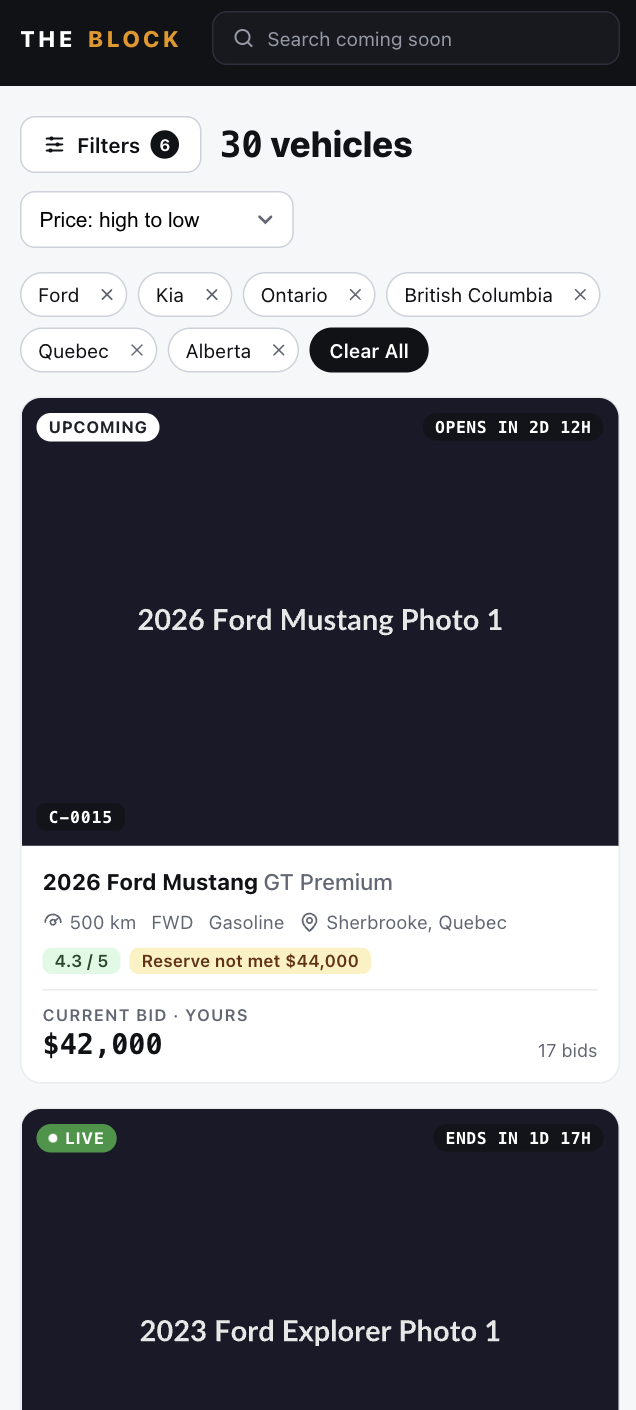
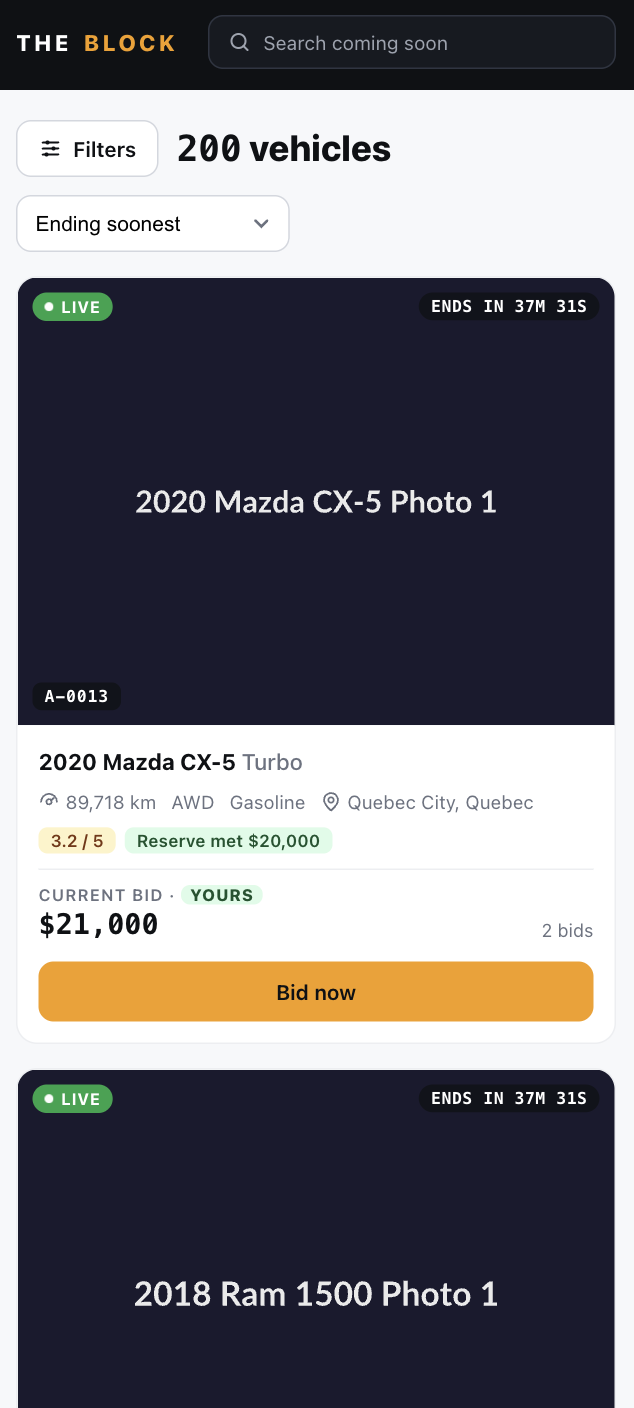
fixed ui bugs and readme

diff --git a/src/components/VehicleCard.tsx b/src/components/VehicleCard.tsx
@@ -80,9 +80,20 @@ export function VehicleCard({
               {/* A lot with no bids is quoting an asking price, not a market
                   price. Labelling them differently keeps that honest. */}
               <span className="card__price-label">
-                {hasBids
-                  ? `Current bid · ${isUsersCurrentBid ? "Yours" : "Another bidder"}`
-                  : "Starting bid"}
+                {hasBids ? (
+                  <>
+                    Current bid ·{" "}
+                    <span
+                      className={
+                        isUsersCurrentBid ? "bid-owner bid-owner--yours" : "bid-owner"
+                      }
+                    >
+                      {isUsersCurrentBid ? "Yours" : "Another bidder"}
+                    </span>
+                  </>
+                ) : (
+                  "Starting bid"
+                )}
               </span>
               <span className="card__price-value numeric">
                 {formatCurrency(vehicle.effectivePrice)}

diff --git a/src/index.css b/src/index.css
@@ -587,14 +587,7 @@ img {
 }
 
 .card__action {
-  display: none;
   padding: 0 14px 14px;
-}
-
-@media (min-width: 900px) {
-  .card__action {
-    display: block;
-  }
 }
 
 .card__media {
@@ -693,6 +686,18 @@ img {
   text-transform: uppercase;
   color: var(--ink-400);
   margin-bottom: 2px;
+}
+
+/* High-bidder mark: green chip so "Yours" is scannable in a dense grid. */
+.bid-owner--yours {
+  display: inline-flex;
+  align-items: center;
+  color: #14532d;
+  background: var(--live-soft);
+  font-weight: 800;
+  padding: 0 6px;
+  border-radius: var(--radius-sm);
+  letter-spacing: 0.04em;
 }
 
 .card__price-value {
@@ -1106,6 +1111,10 @@ img {
 }
 
 .bid__price-label {
+  display: flex;
+  align-items: center;
+  flex-wrap: wrap;
+  gap: 6px;
   font-size: 12px;
   font-weight: 600;
   letter-spacing: 0.05em;

diff --git a/src/components/BidPanel.tsx b/src/components/BidPanel.tsx
@@ -68,9 +68,20 @@ export function BidPanel({ vehicle }: { vehicle: Vehicle }) {
     <>
       <section className="panel panel--bid">
         <span className="bid__price-label">
-          {hasBids
-            ? `Current bid · ${isUsersCurrentBid ? "Yours" : "Another bidder"}`
-            : "Starting bid"}
+          {hasBids ? (
+            <>
+              Current bid ·{" "}
+              <span
+                className={
+                  isUsersCurrentBid ? "bid-owner bid-owner--yours" : "bid-owner"
+                }
+              >
+                {isUsersCurrentBid ? "Yours" : "Another bidder"}
+              </span>
+            </>
+          ) : (
+            "Starting bid"
+          )}
         </span>
         <p className="bid__price numeric">{formatCurrency(vehicle.effectivePrice)}</p>
 

diff --git a/src/pages/InventoryPage.tsx b/src/pages/InventoryPage.tsx
@@ -22,7 +22,7 @@ import {
 export function InventoryPage() {
   const inventory = useInventory();
   const [drawerOpen, setDrawerOpen] = useState(false);
-  const [desktopFiltersOpen, setDesktopFiltersOpen] = useState(false);
+  const [desktopFiltersOpen, setDesktopFiltersOpen] = useState(true);
   const [bidVehicleId, setBidVehicleId] = useState<string | null>(null);
   const closeBidModal = useCallback(() => setBidVehicleId(null), []);
 

diff --git a/README.md b/README.md
@@ -3,17 +3,16 @@
 ## How to Run
 
 - **Step 1**: `cd` into the project directory from your terminal
-- **Step 2**: run `npm run dev`
-- **Step 3**: Open the localpost url in your browser (Google Chrome preferred). `http://localhost:5173/` is the default
+- **Step 2**: run `npm install`
+- **Step 3**: run `npm run dev`
+- **Step 4**: Open the localpost url in your browser (Google Chrome preferred). `http://localhost:5173/` is the default
 
 ## Time Spent
 
 I spent a total of 3.5 hours on this project. This is roughly how I divided up my time:
 
 - **1 hour**: Going though the exercise requirements, understanding what needs to be done, doing some research on similar UI/UX: I used Autotrader and the Toronto Police Auction websites for inspiration for building the UI/UX. I also used this time to write down assumptions.
-
 - **1.5 hour**: Using cursor to implement this project. I used my assumptions, requirements and descriptions of UI/UX elements that I wanted to implement to prompt cursor. I built this project in 5 phases - data layer, browsing screen, filters, vehicle detail page and bidding. Building each phase was also accompanied by writing unit tests.
-
 - **1 hour**: The last hour was used for manual testing, fixing bugs, doing some code cleanup and putting together this file
 
 
@@ -30,15 +29,17 @@ Stale auction timestamps are rebased so live, upcoming, and closed lots all appe
 
 Price, bid rules, and URL-as-query-state are product guesses: effectivePrice is currentBid ?? startingBid, bids are an append-only localStorage log, and filters live in the URL.
 
-
-
 ## Stack
 
 - **Frontend:**: React/Vite/Typescript
 - **Backend:**: None
 - **Database:**: In memory
 
+
+
 ## What I Built
+
+
 
 ### Desktop
 
@@ -54,11 +55,11 @@ Price, bid rules, and URL-as-query-state are product guesses: effectivePrice is 
 
 **Browse**
 
-<img src="screenshots/mobile_browse.png" alt="Mobile inventory browse" width="320" />
+![Mobile inventory browse](screenshots/mobile_browse.png)
 
 **Vehicle detail**
 
-<img src="screenshots/mobile_details.png" alt="Mobile vehicle detail" width="320" />
+![Mobile vehicle detail](screenshots/mobile_details.png)
 
 A buyer-side wholesale auction prototype: browse 200 vehicles, filter and sort them, open a lot, and place a bid. Two screens — an inventory grid at `/` and a vehicle detail page at `/vehicles/:id` — sit on a data layer that loads, normalizes, searches, filters, sorts, paginates, and overlays bids. It delivers a great mobile experience as well as desktop: browsing, filtering, and bidding were designed to work comfortably on a phone, not just squeezed down from a wide layout.
 
@@ -69,16 +70,13 @@ I started with that layer so the UI only consumes a stable query and bid API, th
 The full reasoning is in [ASSUMPTIONS](ASSUMPTIONS.md). The choices that most shaped the prototype:
 
 - **No backend, but a seam for one.** The 280 KB dataset is imported and filtered in memory — faster than a network round trip and one less process to run. All data access still goes through `inventory.ts`, so swapping in a fetch would not leak into the rest of the tree. The tradeoff is that bid validation is client-side only; two buyers racing the same lot have no authoritative guard.
-
 - **Rebase the stale auction window, invent a 48-hour duration.** Every `auction_start` in the fixture has already expired, so countdowns would run backwards. One shared day offset keeps the generator's 7-day stagger; `now` is placed inside that window so live, upcoming, and closed lots all appear. The dataset has no end time, so every lot is assumed to run 48 hours. That duration is the largest fabrication in the layer, and it has to move with the rebase offset or the live/closed mix skews.
-
-- **`effectivePrice` is `currentBid ?? startingBid`.** There is no price field. Ranking an unbid lot by asking price and a bid lot by current price is the honest "what does this cost right now" comparison, but it does conflate two different signals.
-
+- `effectivePrice` **is** `currentBid ?? startingBid`**.** There is no price field. Ranking an unbid lot by asking price and a bid lot by current price is the honest "what does this cost right now" comparison, but it does conflate two different signals.
 - **Bids are an append-only log, overlaid at read time.** The grid and the detail page cannot disagree, and bid history is just a filter over the log. Seed `current_bid` / `bid_count` from the dataset are never mutated. Pre-bids on upcoming lots are allowed (proxy bidding is normal in wholesale, and rejecting them would leave most of the inventory unbiddable); ended lots reject bids. Buy Now is surfaced as a badge and a filter, not a purchase action — checkout is out of scope.
-
 - **The URL is the query.** Refresh, back, and a shared "Ontario SUVs under $20k" link work for free. Filter changes replace the history entry (so Back does not walk through every checkbox); paging pushes. Hand-edited junk is dropped at parse time rather than crashing.
-
 - **Keep the stack thin.** One `useReducer` behind a context is enough for a single bid log; a substring scan over 200 records does not need a search library. Plain CSS with custom properties instead of a utility framework — a build-step dependency would cost more than it saves on a two-page app.
+
+
 
 ## Testing
 
@@ -92,7 +90,9 @@ The full reasoning is in [ASSUMPTIONS](ASSUMPTIONS.md). The choices that most sh
 
 - Add a text based search for make, model, VIN, lot or city
 - `effectivePrice` conflates asking and current price. Showing them as
-  distinct signals: "starts at" and "currently" would be more honest to a
-  buyer comparing two lots.
+distinct signals: "starts at" and "currently" would be more honest to a
+buyer comparing two lots.
 - Add a watchlist and reccomendations.
 - Add a real backend for bid placing in real time and a CDN for serving the pictures
+- Add more tests
+
